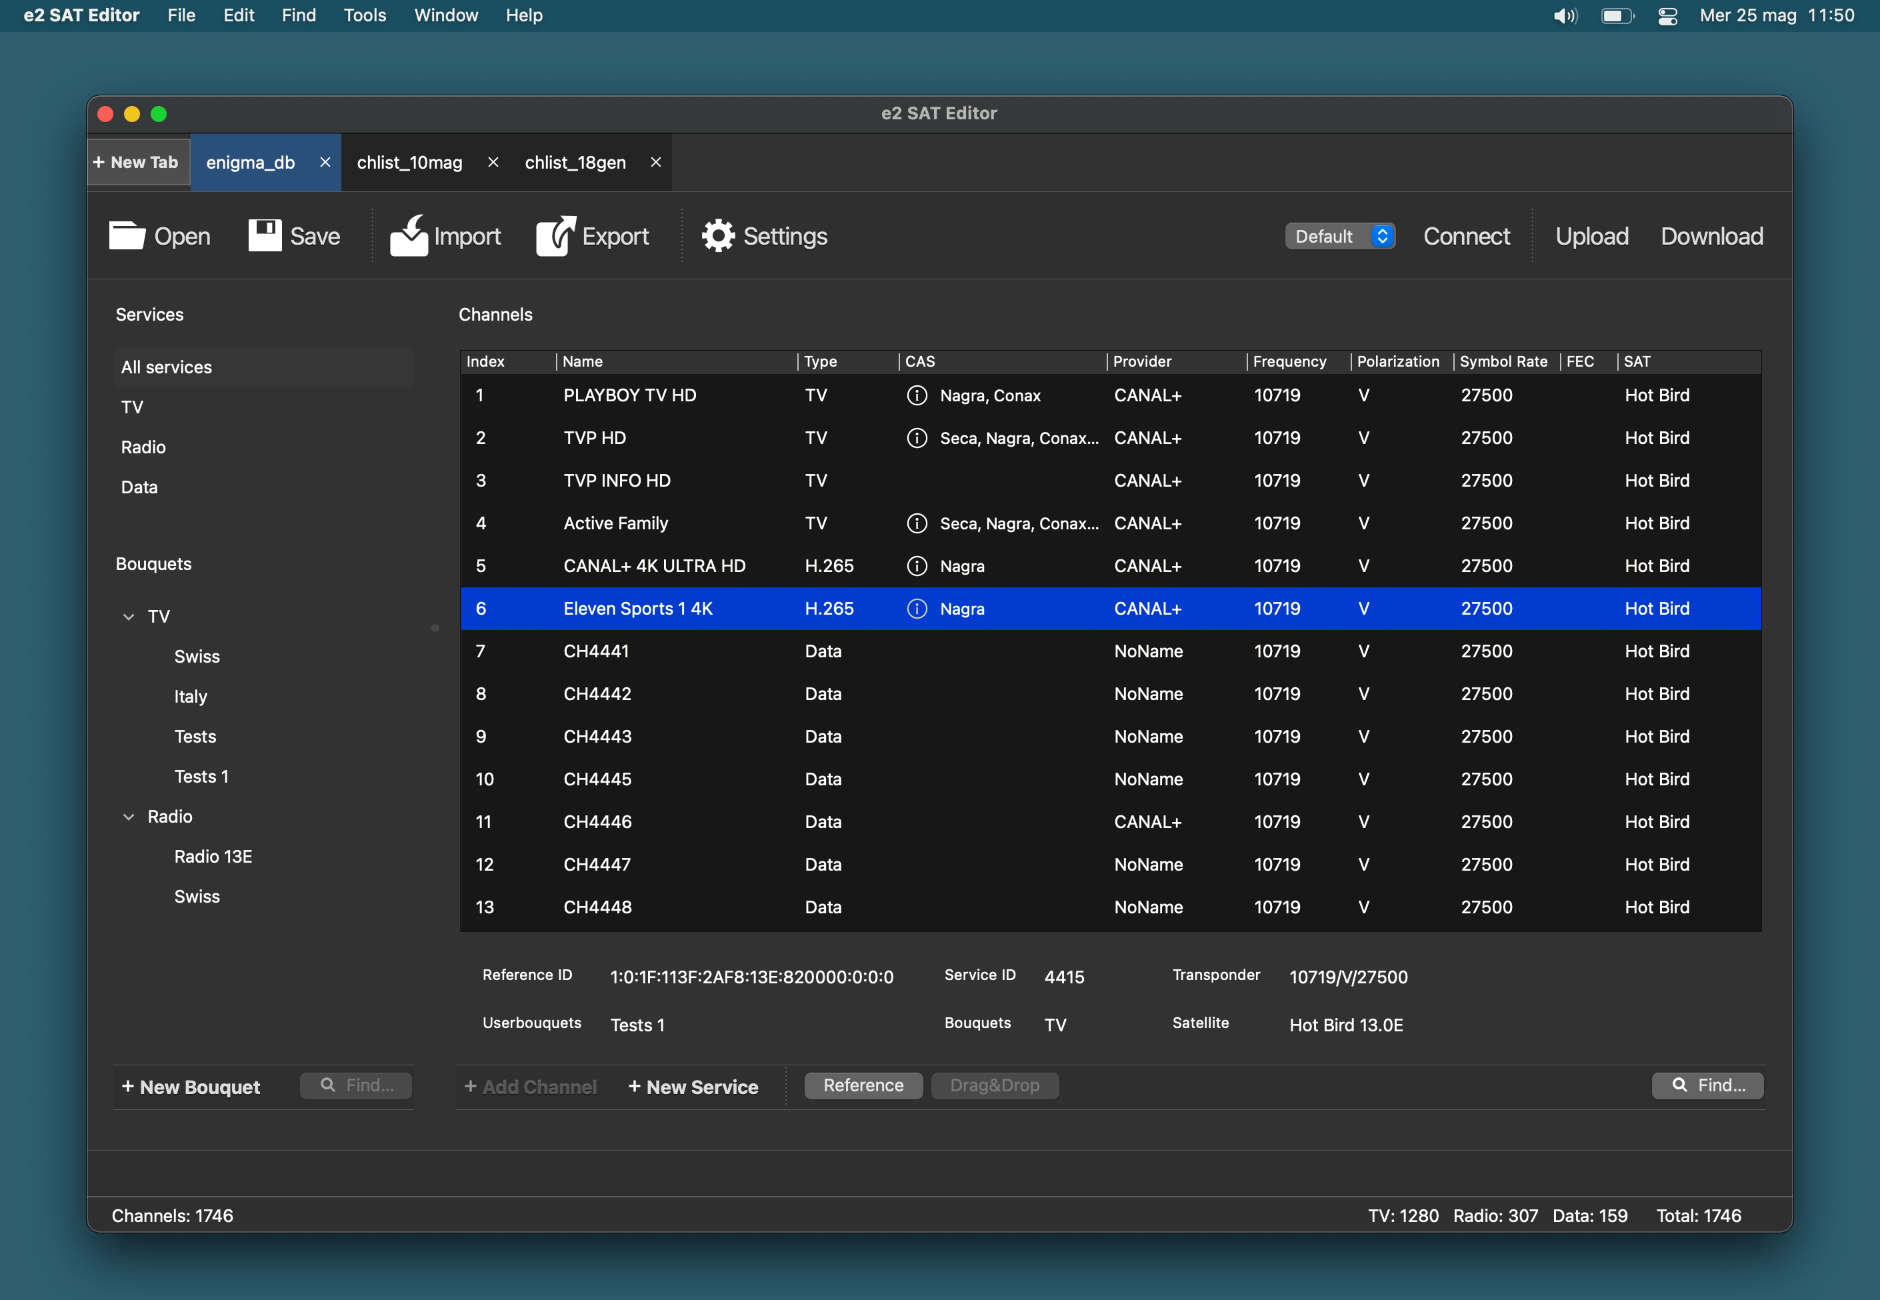
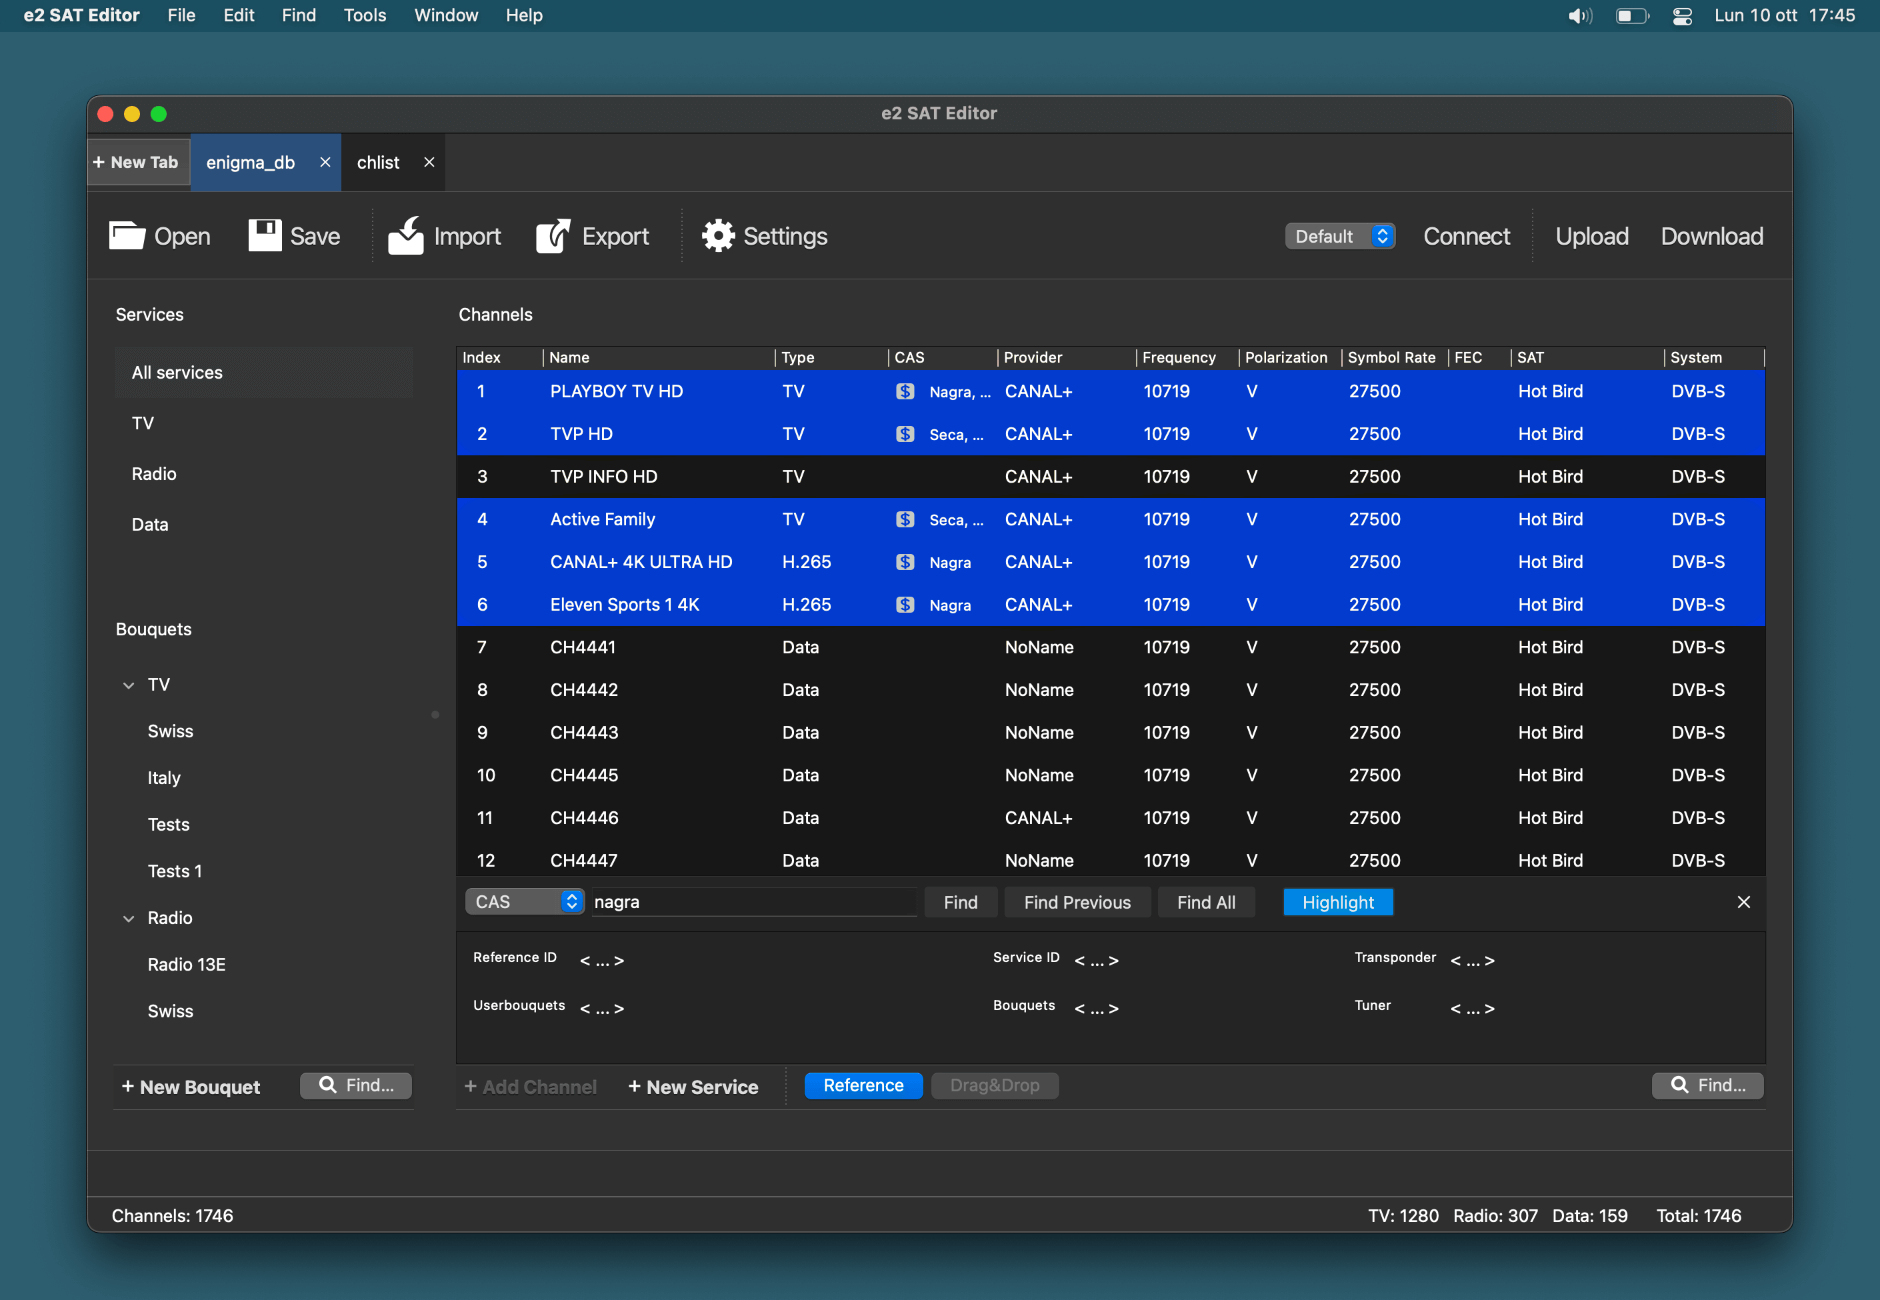
Updated screenshot, README.md, small fixes

diff --git a/src/gui/tab.cpp b/src/gui/tab.cpp
@@ -126,29 +126,28 @@ tab::tab(gui* gid, QWidget* wid, e2se::logger::session* log)
 
 	QTreeWidgetItem* lheader_item = new QTreeWidgetItem({NULL, "Index", "Name", "CHID", "TXID", "Type", "CAS", "Provider", "Frequency", "Polarization", "Symbol Rate", "FEC", "SAT", "System"});
 
-	int col = 0;
 	list_tree->setHeaderItem(lheader_item);
-	list_tree->setColumnHidden(col++, true);
-	list_tree->setColumnWidth(col++, 65);		// Index
-	list_tree->setColumnWidth(col++, 200);		// Name
+	list_tree->setColumnHidden(0, true);
+	list_tree->setColumnWidth(1, 65);		// Index
+	list_tree->setColumnWidth(2, 200);		// Name
 	if (gid->sets->value("application/debug", true).toBool()) {
-		list_tree->setColumnWidth(col++, 175);	// CHID
-		list_tree->setColumnWidth(col++, 150);	// TXID
+		list_tree->setColumnWidth(3, 175);	// CHID
+		list_tree->setColumnWidth(4, 150);	// TXID
 	}
 	else
 	{
-		list_tree->setColumnHidden(col++, true);
-		list_tree->setColumnHidden(col++, true);
+		list_tree->setColumnHidden(3, true);
+		list_tree->setColumnHidden(4, true);
 	}
-	list_tree->setColumnWidth(col++, 85);		// Type
-	list_tree->setColumnWidth(col++, 45);		// CAS
-	list_tree->setColumnWidth(col++, 150);		// Provider
-	list_tree->setColumnWidth(col++, 95);		// Frequency
-	list_tree->setColumnWidth(col++, 85);		// Polarization
-	list_tree->setColumnWidth(col++, 95);		// Symbol Rate
-	list_tree->setColumnWidth(col++, 50);		// FEC
-	list_tree->setColumnWidth(col++, 125);		// SAT
-	list_tree->setColumnWidth(col++, 75);		// System
+	list_tree->setColumnWidth(5, 85);		// Type
+	list_tree->setColumnWidth(6, 45);		// CAS
+	list_tree->setColumnWidth(7, 150);		// Provider
+	list_tree->setColumnWidth(8, 95);		// Frequency
+	list_tree->setColumnWidth(9, 85);		// Polarization
+	list_tree->setColumnWidth(10, 95);		// Symbol Rate
+	list_tree->setColumnWidth(11, 50);		// FEC
+	list_tree->setColumnWidth(12, 125);		// SAT
+	list_tree->setColumnWidth(13, 75);		// System
 
 	this->lheaderv = list_tree->header();
 	lheaderv->connect(lheaderv, &QHeaderView::sectionClicked, [=](int column) { this->trickySortByColumn(column); });
@@ -1096,10 +1095,10 @@ void tab::populate(QTreeWidget* side_tree)
 				item->setFont(5, QFont(theme::fontFamily(), theme::calcFontSize(-1), QFont::Weight::Bold));
 			}
 			item->setFont(6, QFont(theme::fontFamily(), theme::calcFontSize(-1)));
-			/*if (! entry.at(6).isEmpty())
+			if (! item->text(6).isEmpty())
 			{
 				item->setIcon(6, theme::icon("crypted"));
-			}*/
+			}
 			cache[curr_chlist].append(item);
 		}
 	}
@@ -2074,7 +2073,7 @@ void tab::putChannels(vector<QString> channels)
 			item->setFont(5, QFont(theme::fontFamily(), theme::calcFontSize(-1), QFont::Weight::Bold));
 		}
 		item->setFont(6, QFont(theme::fontFamily(), theme::calcFontSize(-1)));
-		if (! entry.at(6).isEmpty())
+		if (! item->text(6).isEmpty())
 		{
 			item->setIcon(6, theme::icon("crypted"));
 		}
@@ -2287,35 +2286,43 @@ void tab::updateRefBox()
 			e2db::channel_reference chref = dbih->userbouquets[curr_chlist].channels[chid];
 			string crefid = dbih->get_reference_id(chref);
 			refid = QString::fromStdString(crefid);
-
-			unordered_map<string, int> bss;
-			QStringList ubl;
-			for (auto & x : dbih->userbouquets)
-			{
-				if (x.second.channels.count(chid))
-				{
-					if (! x.second.name.empty())
-						ubl.append(QString::fromStdString(x.second.name));
-					bss[x.second.pname] = bss[x.second.pname]++;
-				}
-			}
-			ubls = "<p style=\"line-height: 150%\">" + ubl.join("<br>") + "</p>";
-
-			QStringList bsl;
-			for (auto & x : bss)
-			{
-				if (dbih->bouquets.count(x.first))
-					bsl.append(QString::fromStdString(dbih->bouquets[x.first].nname));
-			}
-			bsls = "<p style=\"line-height: 150%\">" + bsl.join("<br>") + "</p>";
 		}
 		// services tree
 		else
 		{
 			string crefid = dbih->get_reference_id(chid);
 			refid = QString::fromStdString(crefid);
-			bsls = ubls = "< >";
 		}
+
+		bsls = ubls = "< >";
+
+		unordered_map<string, int> bss;
+		QStringList ubl;
+		for (auto & x : dbih->userbouquets)
+		{
+			if (x.second.channels.count(chid))
+			{
+				if (! x.second.name.empty())
+					ubl.append(QString::fromStdString(x.second.name));
+				bss[x.second.pname] = bss[x.second.pname]++;
+			}
+		}
+		if (! ubl.empty())
+		{
+			ubls = "<p style=\"line-height: 150%\">" + ubl.join("<br>") + "</p>";
+		}
+
+		QStringList bsl;
+		for (auto & x : bss)
+		{
+			if (dbih->bouquets.count(x.first))
+				bsl.append(QString::fromStdString(dbih->bouquets[x.first].nname));
+		}
+		if (! bsl.empty())
+		{
+			bsls = "<p style=\"line-height: 150%\">" + bsl.join("<br>") + "</p>";
+		}
+
 		if (dbih->db.services.count(chid))
 		{
 			e2db::service ch = dbih->db.services[chid];

diff --git a/src/gui/editTunersets.cpp b/src/gui/editTunersets.cpp
@@ -127,7 +127,13 @@ void editTunersets::layout()
 	QTreeWidgetItem* list_thead = new QTreeWidgetItem(lhs);
 	list->setHeaderItem(list_thead);
 	list->setColumnHidden(0, true);
-	list->setColumnWidth(1, 150);
+	if (this->sets->value("application/debug", true).toBool()) {
+		list->setColumnWidth(1, 150);
+	}
+	else
+	{
+		list->setColumnHidden(1, true);
+	}
 	tree->setColumnWidth(2, 75);
 	tree->setColumnWidth(3, 75);
 	tree->setColumnWidth(4, 65);
@@ -238,6 +244,7 @@ void editTunersets::populate()
 		QString x = QString::fromStdString(ci);
 
 		QTreeWidgetItem* item;
+		QString idx = QString::fromStdString(to_string(tp.first));
 		QString trid = QString::fromStdString(tp.second);
 		QString freq = QString::fromStdString(to_string(txp.freq));
 
@@ -272,6 +279,8 @@ void editTunersets::populate()
 		{
 			continue;
 		}
+		item->setData(0, Qt::UserRole, idx);
+		item->setData(1, Qt::UserRole, trid);
 
 		list->addTopLevelItem(item);
 	}

diff --git a/src/gui/editBouquet.cpp b/src/gui/editBouquet.cpp
@@ -45,7 +45,8 @@ void editBouquet::display(QWidget* cwid)
 	QString wtitle = this->state.edit ? "Edit Bouquet" : "Add Bouquet";
 	this->dial = new QDialog(cwid);
 	dial->setWindowTitle(wtitle);
-	dial->connect(dial, &QDialog::finished, [=]() { delete dial; });
+	//TODO FIX SEGFAULT
+	// dial->connect(dial, &QDialog::finished, [=]() { delete dial; });
 
 	QGridLayout* dfrm = new QGridLayout(dial);
 	QVBoxLayout* dvbox = new QVBoxLayout;
@@ -218,6 +219,7 @@ string editBouquet::getEditID()
 
 void editBouquet::destroy()
 {
+	delete this->dial;
 	delete this;
 }
 

diff --git a/src/gui/editService.cpp b/src/gui/editService.cpp
@@ -52,7 +52,8 @@ void editService::display(QWidget* cwid)
 	QString wtitle = this->state.edit ? "Edit Service" : "Add Service";
 	this->dial = new QDialog(cwid);
 	dial->setWindowTitle(wtitle);
-	dial->connect(dial, &QDialog::finished, [=]() { delete dial; });
+	//TODO FIX SEGFAULT
+	// dial->connect(dial, &QDialog::finished, [=]() { delete dial; });
 
 	QGridLayout* dfrm = new QGridLayout(dial);
 	QVBoxLayout* dvbox = new QVBoxLayout;
@@ -817,6 +818,7 @@ string editService::getEditID()
 
 void editService::destroy()
 {
+	delete this->dial;
 	delete this;
 }
 

diff --git a/README.md b/README.md
@@ -2,7 +2,7 @@
 
 An enigma2 📡 channel list editor – under development.
 
-[![A screenshot of e2 SAT Editor](res/screenshot.jpg "e2 SAT Editor (screenshot)")](res/screenshot.png?raw=true)
+[![A screenshot of e2 SAT Editor](res/screenshot.png "e2 SAT Editor (screenshot)")](res/screenshot.png?raw=true)
 
 **e2 SAT Editor** is an Enigma 2 channel list editor, fully cross-platform (Windows, macOS, Linux) and free to use.
 
@@ -55,7 +55,7 @@ It supports Lamedb 4 and Lamedb 5 formats.
 - [ ] minisite and promotion
 - [ ] basic translations
 - [ ] automated build
-- [ ] terrestrial.xml and cable.xml support
+- [x] terrestrial.xml and cable.xml support
 - [ ] smart edit userbouquets
 - [ ] picons support
 - [ ] plug-in system
